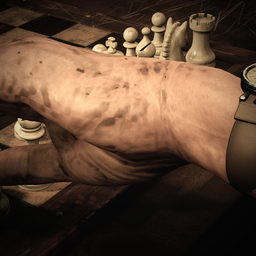
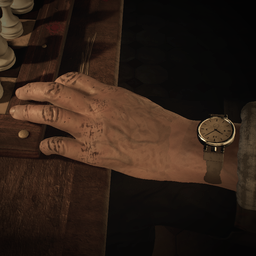
HUD player portrait: recaptured from the current hands (left hand with the watch beside the white pieces, capture pp_c, same grade as the opponent tiles); portraits import with mips (were point-minified from 256 px to ~62 px: the judge's 'portrait smear', runs 6-7). Evidence L-portrait-player.png (t
Claude-Session: https://claude.ai/code/session_01Bdhv4WcW28Q1vBVWcz5HtR

diff --git a/ue5/TownChessBench/Scripts/build_scene.py b/ue5/TownChessBench/Scripts/build_scene.py
@@ -2568,7 +2568,9 @@ def build():
                     t = import_texture(os.path.join(ui_dir, f), f"{ROOT}/UI", os.path.splitext(f)[0], "color")
                     if t:
                         setp(t, "lod_group", unreal.TextureGroup.TEXTUREGROUP_UI)
-                        setp(t, "mip_gen_settings", unreal.TextureMipGenSettings.TMGS_NO_MIPMAPS)
+                        # mips: the 256 px tile is drawn at ~62-83 px; without mips it was point-minified and the judge
+                        # read the player portrait as a smear (runs 6-7)
+                        setp(t, "mip_gen_settings", unreal.TextureMipGenSettings.TMGS_SHARPEN2)
                         EAL.save_loaded_asset(t)
         # HUD fonts (ATCHUD loads them by path; DefaultGame.ini always cooks /Game/TownChess/Fonts): Lato for play text,
         # Courier Prime Regular for the thin monospace section titles of the reference
